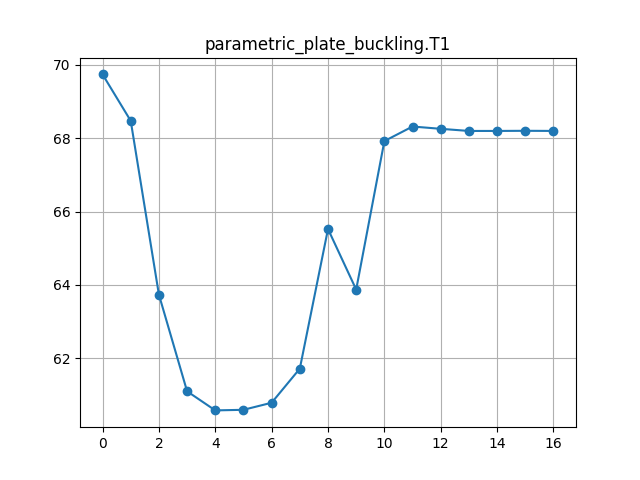
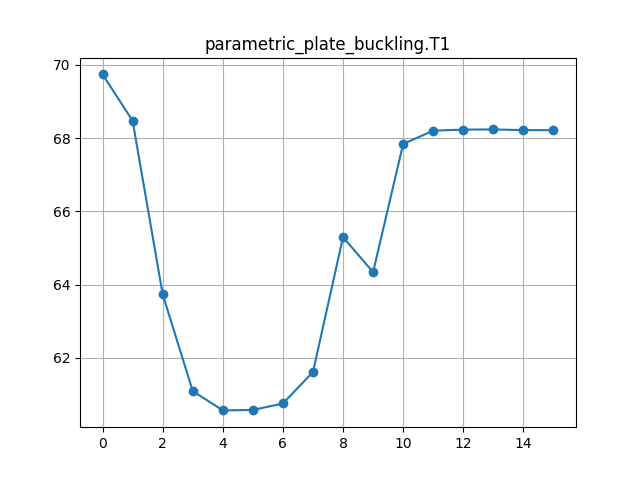
update rts plate tutorial optimisation results

diff --git a/mynewbook/Tutorials/Example of a variable stiffness plate in compression.md b/mynewbook/Tutorials/Example of a variable stiffness plate in compression.md
@@ -232,8 +232,8 @@ Then upload it under the `Parameters` tab by selecting `upload user input files`
 
 We can now execute the design optimisation by selecting the play symbol ▶ in the Run controls interface. 
 
-The {term}`Run` should complete after approximately 53 iterations of the parametric-plate-buckling component (1 iteration of the `open-mdao` component). 
-Since each component execution takes a minute to complete (of which ~45s are allocated to the actual CalculiX CrunchiX finite element analysis), the design optimisation task should complete within ~1 hour.
+The {term}`Run` should complete after approximately 57 iterations of the parametric-plate-buckling component (1 iteration of the `open-mdao` component). 
+Since each component execution takes just under a minute to complete (of which ~40s are allocated to the actual CalculiX CrunchiX finite element analysis), the design optimisation task should complete within 50min.
 
 ### Inspect results
 
@@ -272,29 +272,29 @@ The optimisation study outputs are summarised at the end of the 'run_driver.log'
 We can also inspect the convergence history plots of the design variables, objective and constraint functions in the same folder.
 
 ```{code}
-Driver debug print for iter coord: rank0:ScipyOptimize_SLSQP|19
+Driver debug print for iter coord: rank0:ScipyOptimize_SLSQP|28
 ---------------------------------------------------------------
 Design Vars
-{'parametric_plate_buckling.T0': array([4.90288545]),
- 'parametric_plate_buckling.T1': array([68.19927386])}
+{'parametric_plate_buckling.T0': array([4.63764166]),
+ 'parametric_plate_buckling.T1': array([68.21746728])}
 
 Calling compute.
 message: 
- {'component': 'parametric-plate-buckling', 'inputs': {'design': {'T1': [68.19927385891286], 'T0': [4.9028854501079655]}}, 'get_grads': False, 'get_outputs': True}
+ {'component': 'parametric-plate-buckling', 'inputs': {'design': {'T1': [68.21746728435265], 'T0': [4.637641660750407]}}, 'get_grads': False, 'get_outputs': True}
 Nonlinear constraints
-{'parametric_plate_buckling.buckling_factors': array([75.00002])}
+{'parametric_plate_buckling.buckling_factors': array([75.00001])}
 
 Linear constraints
 None
 
 Objectives
-{'parametric_plate_buckling.mass': array([6.76487929])}
+{'parametric_plate_buckling.mass': array([6.76051059])}
 
 Optimization terminated successfully    (Exit mode 0)
-            Current function value: 6.7648792895827246
-            Iterations: 17
-            Function evaluations: 19
-            Gradient evaluations: 17
+            Current function value: 6.76051059005866
+            Iterations: 16
+            Function evaluations: 28
+            Gradient evaluations: 16
 Optimization Complete
 -----------------------------------
 ```
@@ -324,7 +324,7 @@ Optimization Complete
 :align: right
 ```
 
-The control point fibre shearing angles converge after 17 SLSQP algorithm iterations to T0=5 and T1=68 degrees.
+The control point fibre shearing angles converge after 16 SLSQP algorithm iterations to T0=5 and T1=68 degrees.
  
 The mass and buckling load results are compared with the optimal design from Reference 1 below, showing a good correlation. 
 
@@ -337,7 +337,7 @@ The mass and buckling load results are compared with the optimal design from Ref
   - Relative Error
 * - Mass (g)
   - 1321
-  - 1353
+  - 1352
   - 2 %
 * - Buckling load (kN) 
   - 750
